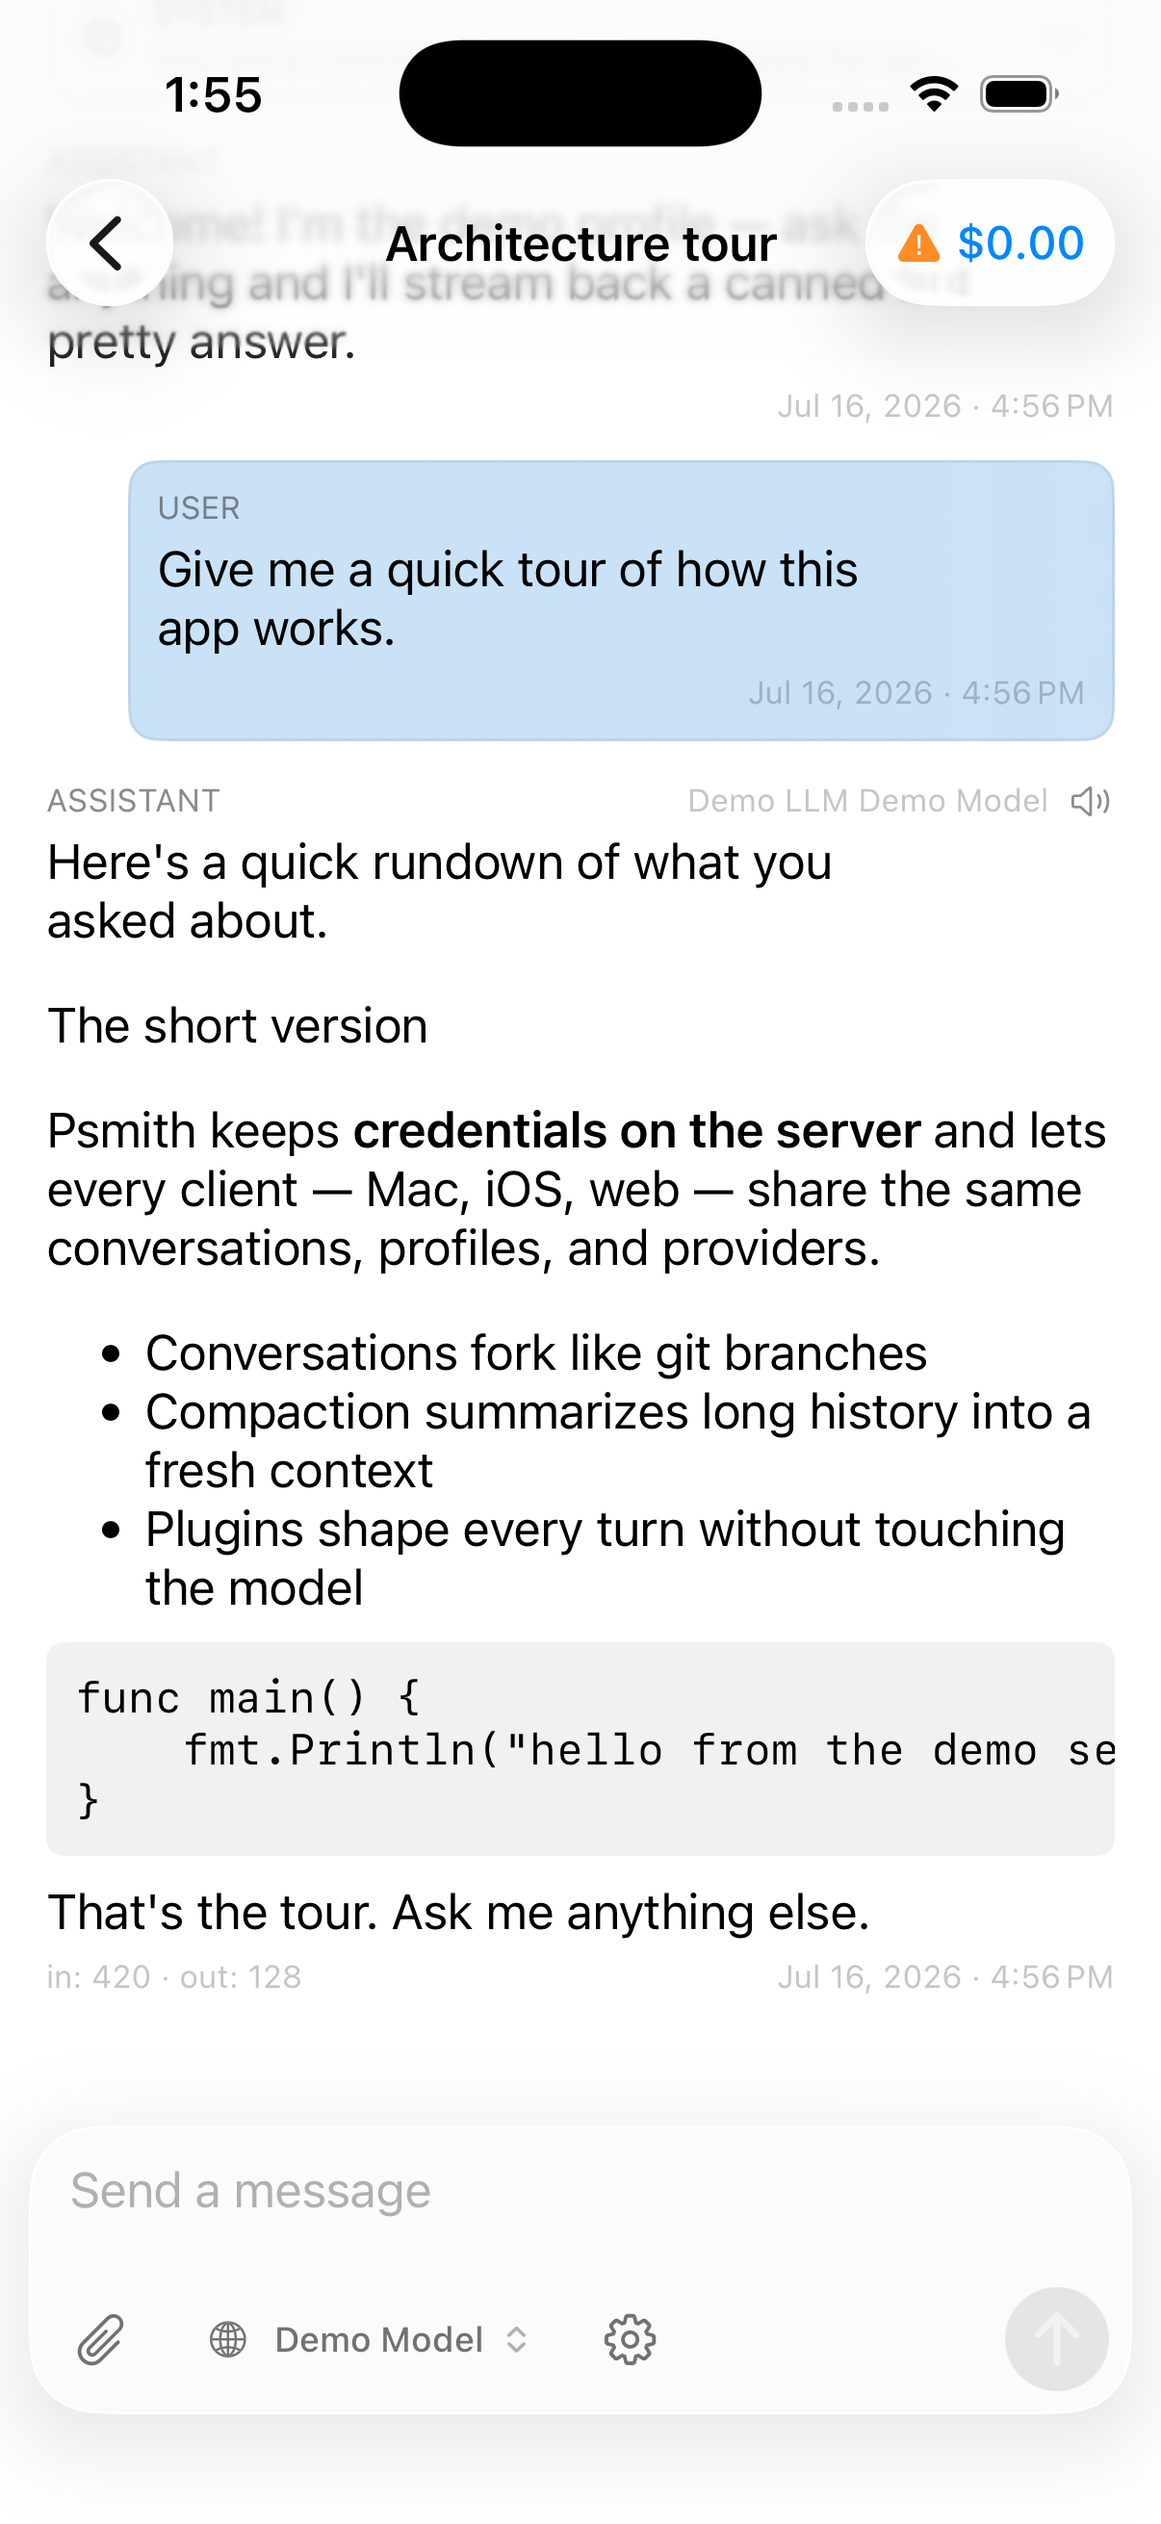
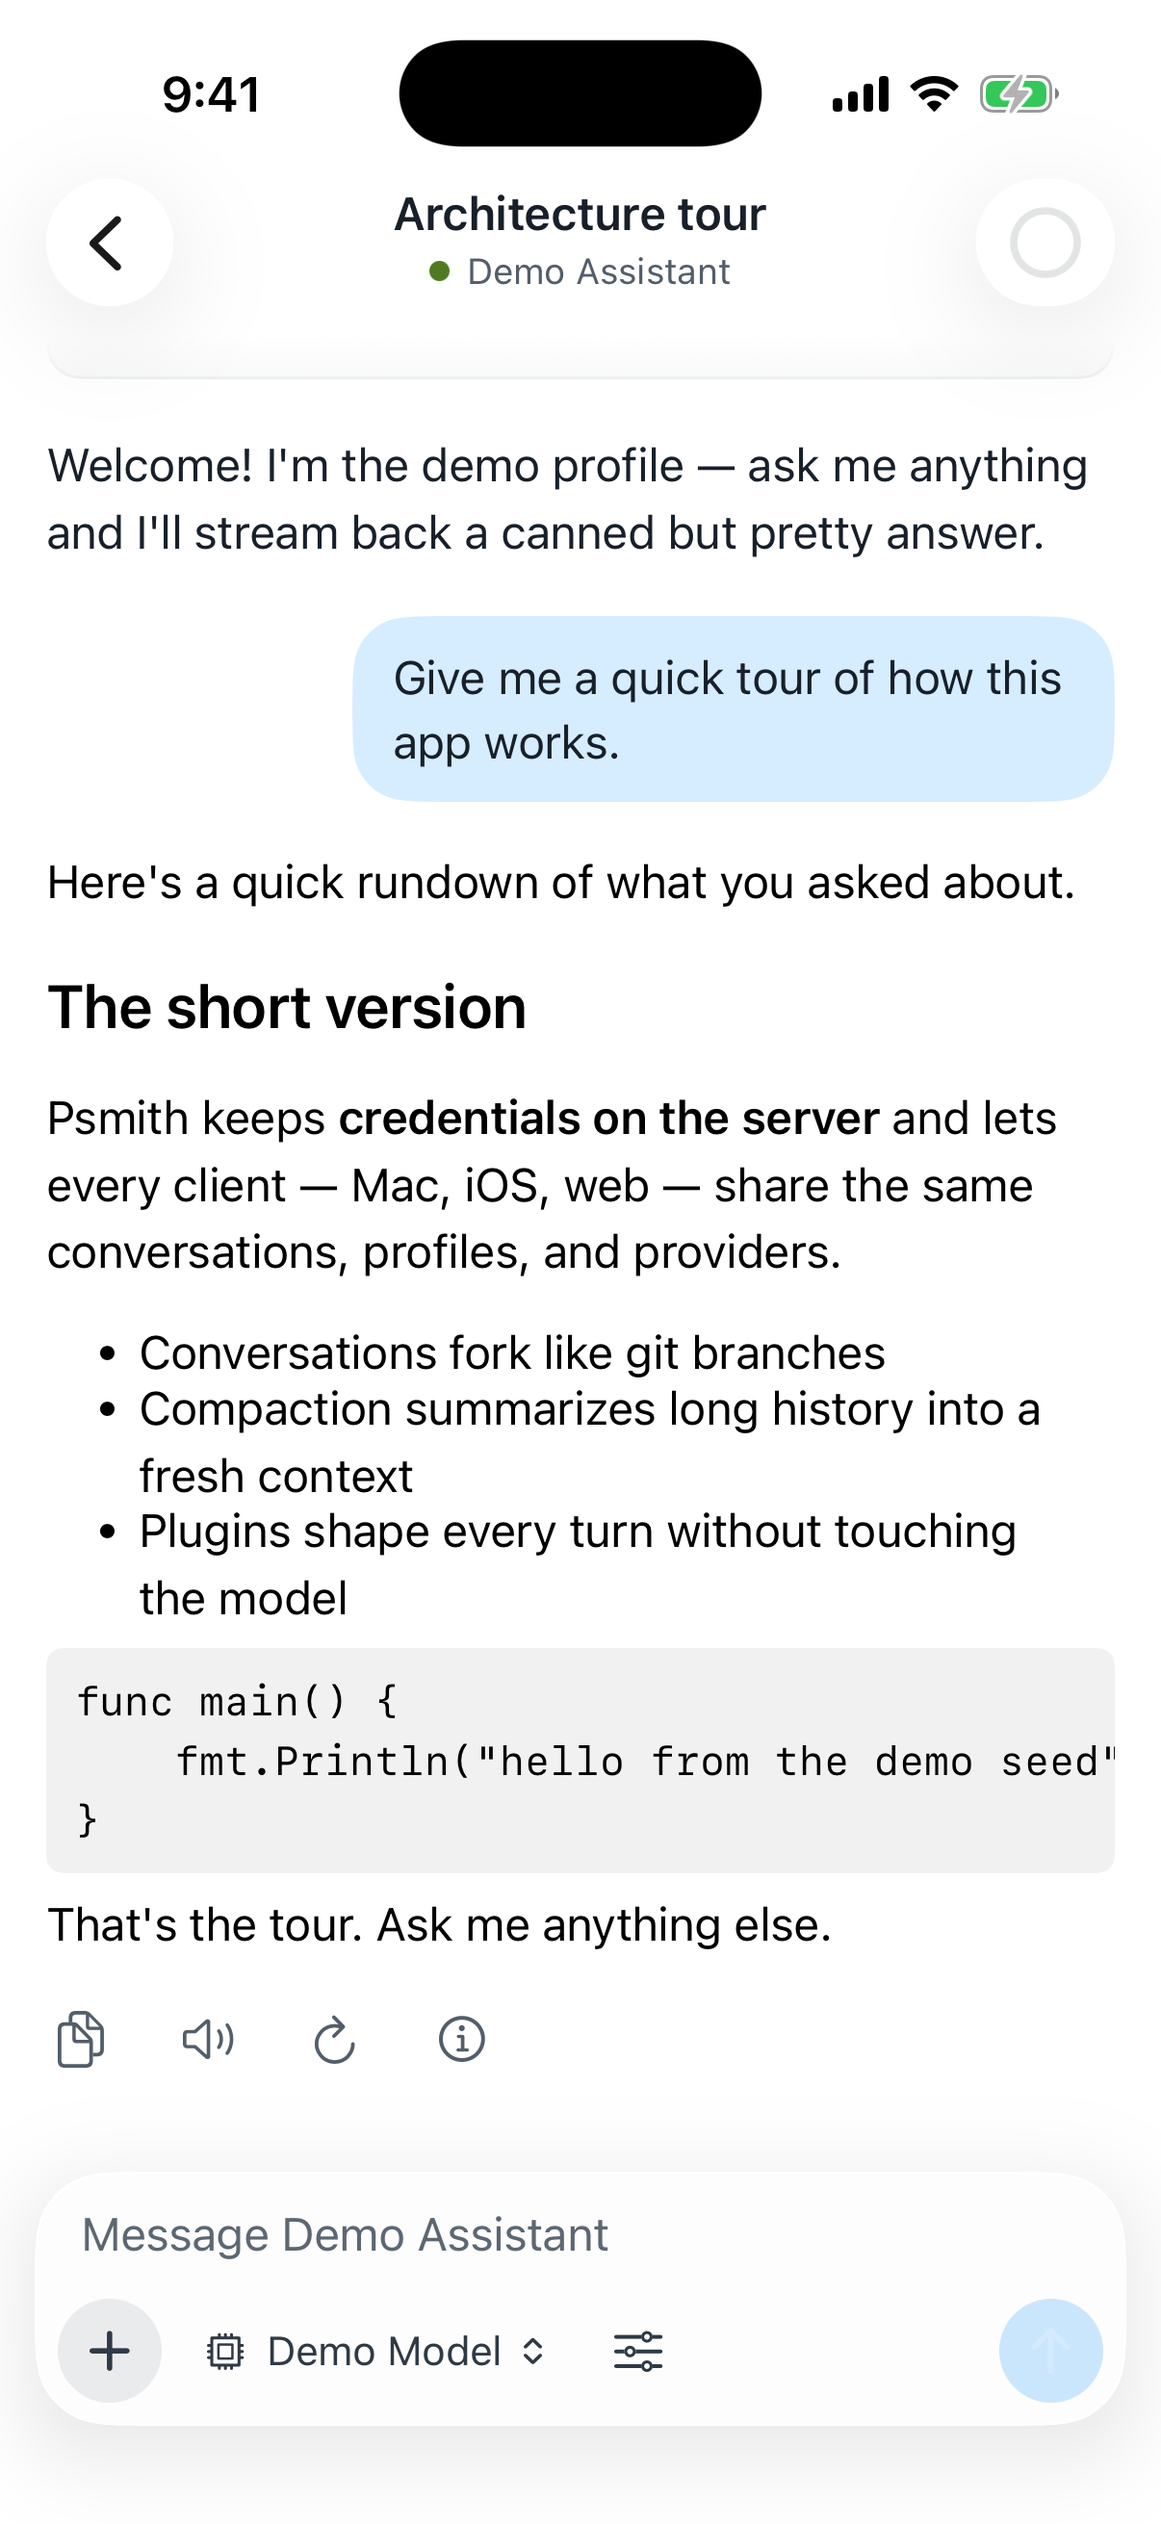
docs: refresh the README and its screenshots, add web
Every screenshot is retaken against a demo-seeded server: iOS from a
clean simulator, Mac through a new LiveProbe readmeShots test that
renders offscreen, and web through headless Chrome. The README gains a
section showing all three clients, lists the Claude Code and Codex
drivers as shipped, and covers the web client and the e2e targets.

diff --git a/clients/psmithd-mac/Tests/PsmithMacSnapshotTests/LiveProbe.swift b/clients/psmithd-mac/Tests/PsmithMacSnapshotTests/LiveProbe.swift
@@ -120,8 +120,8 @@ struct LiveProbe {
             await real(name)
         }
 
-        func snap(_ name: String) {
-            guard let image = render() else { return }
+        func snap(_ name: String, titlebar: Bool = true) {
+            guard let image = Self.render(window, titlebar: titlebar) else { return }
             let rep = NSBitmapImageRep(cgImage: image)
             let png = rep.representation(using: .png, properties: [:])
             try? png?.write(to: URL(fileURLWithPath: "\(LiveProbe.shots)/mac-\(name).png"))
@@ -130,7 +130,7 @@ struct LiveProbe {
         func render() -> CGImage? { Self.render(window) }
 
         /// The window as drawn offscreen, title bar included.
-        static func render(_ window: NSWindow) -> CGImage? {
+        static func render(_ window: NSWindow, titlebar: Bool = true) -> CGImage? {
             guard let view = window.contentView?.superview ?? window.contentView else { return nil }
             view.layoutSubtreeIfNeeded()
             view.displayIfNeeded()
@@ -208,7 +208,7 @@ struct LiveProbe {
                 ctx.draw(cg, in: r)
             }
             // The title bar on top again, so titles and toolbar show.
-            if let bar = Self.find(view, where: { String(describing: type(of: $0)) == "NSTitlebarContainerView" }).first,
+            if titlebar, let bar = Self.find(view, where: { String(describing: type(of: $0)) == "NSTitlebarContainerView" }).first,
                let rep = bar.bitmapImageRepForCachingDisplay(in: bar.bounds) {
                 bar.cacheDisplay(in: bar.bounds, to: rep)
                 if let cg = rep.cgImage { ctx.draw(cg, in: bar.convert(bar.bounds, to: nil)) }
@@ -412,6 +412,32 @@ struct LiveProbe {
                 }
             }
         }
+    }
+
+    /// The README's Mac shots, against a demo-seeded server
+    /// (`cmd/demo-seed`). Writes mac-readme-*.png, rendered offscreen.
+    @Test(.enabled(if: !shots.isEmpty))
+    func readmeShots() async throws {
+        let app = try await Self.signedIn()
+        let rig = Rig(app: app, size: CGSize(width: 1100, height: 720))
+        await app.providers.load()
+        await app.profiles.load()
+        await app.mcpServers.load()
+        let convos = ConversationsModel(client: app.client, profiles: app.profiles, hub: app.streamHub)
+        await convos.refresh()
+        rig.mount(HomeView(user: app.authState.currentUser!).environment(convos))
+        await rig.pump(2)
+        if let c = convos.conversations.first(where: { $0.title == "Architecture tour" }) { convos.selectedID = c.id }
+        await rig.pump(4)
+        // The title bar redraw paints over the header, which sits under it
+        // in a full-size-content window.
+        rig.snap("readme-conversation", titlebar: false)
+
+        let settings = Rig(app: app, size: CGSize(width: 1100, height: 720))
+        settings.mount(SettingsView(providersModel: app.providers, profilesModel: app.profiles, mcpServersModel: app.mcpServers).environment(convos))
+        settings.navigator.settingsCategory = .profiles
+        await settings.pump(3)
+        settings.snap("readme-settings")
     }
 
     /// Every pane at the window's minimum and at two larger sizes.

diff --git a/README.md b/README.md
@@ -2,7 +2,7 @@
 
 *Pronounced "Smith". The P is silent, as in pshrimp.*
 
-Psmith is a self-hosted AI chat orchestrator. It mixes cloud APIs (Anthropic, OpenAI, Google, OpenRouter, anything OpenAI-compatible) and — eventually — local agentic CLIs behind a single chat UI, with a server that owns history so clients can disconnect and reconnect without losing tokens mid-stream.
+Psmith is a self-hosted AI chat orchestrator. It puts cloud APIs (Anthropic, OpenAI, Google, OpenRouter, anything OpenAI-compatible) and local agentic CLIs (Claude Code, Codex) behind one chat UI. The server owns history and consumes every stream to completion, so clients can disconnect and reconnect without losing a token.
 
 It's a personal project. The roadmap, scope, and tradeoffs are biased toward "one developer using this every day," not "platform for many tenants."
 
@@ -16,36 +16,59 @@ It's a personal project. The roadmap, scope, and tradeoffs are biased toward "on
 
 ## Why this exists
 
-Off-the-shelf chat UIs make easy things easy and hard things impossible. Psmith trades polish for knobs:
+Off-the-shelf chat UIs make easy things easy and hard things impossible. Psmith trades polish for knobs.
 
-- **Mix providers in one conversation** — pick the model per turn. Ask Claude for code, hand the result to Gemini for review, settle the dispute with GPT-5.
-- **Server-owned streams** — the server consumes upstream provider streams to completion regardless of client state. Background the app, return five minutes later, the message is finished and waiting.
-- **Branching message trees** — every conversation is a tree, not a list. Fork from any message; the UI shows sibling counts and lets you switch branches.
-- **Manual context compression** — compress on demand into a new context with a summary you can edit before committing.
-- **Profiles as configuration bundles** — system message + default model + compression behavior + plugins, attached to a conversation, inheriting from parent profiles.
-- **Plugins as compile-time Go code** — one Go interface set covering system-prompt contribution, outgoing rewrites, history transforms, inbound chunk processing, display rewrites, and tools.
+- Mix providers in one conversation. Pick the model per turn: ask Claude for code, hand the result to Gemini for review, settle the dispute with GPT-5.
+- The server owns the stream. It reads every upstream provider stream to the end whatever the client does. Background the app, come back five minutes later, and the reply is finished and waiting.
+- Conversations are trees, not lists. Fork from any message; every client shows sibling counts and lets you switch branches.
+- Compression is manual. Compress on demand into a new context, with a summary you review and edit before it takes over.
+- Profiles bundle configuration: system message, default model, compression behavior and plugins. They attach to a conversation and inherit from parent profiles.
+- Plugins are compile-time Go code. One interface set covers system-prompt contributions, outgoing rewrites, history transforms, inbound chunk processing, display rewrites and tools.
 
 ## Status
 
-A personal project, exercised daily by the author. Working today:
+A personal project, used daily. Working today:
 
-- Anthropic, OpenAI (Chat Completions + Responses), Google Gemini, and any OpenAI-compatible endpoint, with **13 built-in provider presets** (OpenAI, Anthropic, Google, xAI, DeepSeek, Groq, OpenRouter, Mistral, Together, Cerebras, Qwen, Ollama, Perplexity) each carrying its per-provider quirks.
-- Streaming, branching, editing, deleting, and manual two-stage compression.
-- Per-message and per-context cost/token tracking, a cache-efficiency dot, prompt caching across Anthropic/OpenAI/Google, and auto-titling via a cheap model (or Apple Foundation Models on macOS).
-- Per-conversation overrides (`temperature`, `max_output_tokens`, thinking effort, …) with 4-layer resolution (conversation → profile → model → provider).
-- **macOS and iOS** clients (SwiftUI) sharing repositories, view models, and most views via the `PsmithSwift` package; the iOS app reattaches to in-flight server streams on resume and stays readable offline via a SwiftData cache. A server-rendered **web** client is built into psmithd.
-- **Tool use end to end** — server-side tools (web search, memory, image generation) and on-device tools (Calendar, Reminders, Health, Obsidian on iOS), with an audit log, per-call permissions, and mid-call elicitation.
-- **Semantic history search, MCP, tracing** — opt-in embeddings power a `search_history` tool; a `/mcp` endpoint exposes a curated subset of the API; per-user Langfuse config emits traces.
+- Anthropic, OpenAI (Chat Completions and Responses), Google Gemini, and any OpenAI-compatible endpoint. Thirteen built-in presets (OpenAI, Anthropic, Google, xAI, DeepSeek, Groq, OpenRouter, Mistral, Together, Cerebras, Qwen, Ollama, Perplexity) each carry their provider's quirks.
+- Claude Code and Codex as stateful providers. The server holds their session handles per branch, so forking a harness conversation works.
+- Streaming, branching, editing, deleting, and two-stage manual compression.
+- Cost and token tracking per message and per context, a cache-efficiency dot, prompt caching across Anthropic, OpenAI and Google, and auto-titling through a cheap model (or Apple Foundation Models on macOS).
+- Per-conversation overrides (`temperature`, `max_output_tokens`, thinking effort and more), resolved through four layers: conversation, profile, model, provider.
+- Three clients. The macOS and iOS apps (SwiftUI) share repositories, view models and most views through the `PsmithSwift` package. The iOS app reattaches to in-flight server streams on resume and stays readable offline through a SwiftData cache. The web client is server-rendered and built into psmithd; replies stream into the page live, and every tab shares one account event stream.
+- Tool use end to end: server-side tools (web search, memory, image generation) and on-device tools (Calendar, Reminders, Health, Obsidian on iOS), with an audit log, per-call permissions and mid-call elicitation.
+- Opt-in embeddings power a `search_history` tool. A `/mcp` endpoint exposes a curated subset of the API. Per-user Langfuse config emits traces.
 
-Deferred: APNs push on iOS, stateful subprocess providers (Claude Code, Codex), multi-user sharing, and encryption-at-rest beyond host disk encryption. See [`docs/`](docs/README.md) for the full picture.
+Deferred: APNs push on iOS, multi-user sharing, and encryption at rest beyond host disk encryption. See [`docs/`](docs/README.md) for the full picture.
 
-<p align="left">
-  <img src="docs/screenshots/ios-chats.png" alt="iOS chats list" width="270">
-  <img src="docs/screenshots/ios-providers.png" alt="iOS providers and presets" width="270">
+## What it looks like
+
+The same server behind every client. These are a demo account seeded by [`cmd/demo-seed`](cmd/demo-seed/main.go) against its fake model.
+
+The web client, with the conversation inspector open:
+
+<p align="center">
+  <img src="docs/screenshots/web-conversation.png" alt="A conversation in the Psmith web client, with the inspector open" width="760">
 </p>
 
-<p align="left">
-  <img src="docs/screenshots/mac-conversation.png" alt="A conversation in the Psmith macOS app" width="560">
+The macOS app:
+
+<p align="center">
+  <img src="docs/screenshots/mac-conversation.png" alt="A conversation in the Psmith macOS app" width="660">
+</p>
+
+The iOS chats list, settings, and the provider presets:
+
+<p align="center">
+  <img src="docs/screenshots/ios-chats.png" alt="iOS chats list" width="250">
+  <img src="docs/screenshots/ios-settings.png" alt="iOS settings" width="250">
+  <img src="docs/screenshots/ios-providers.png" alt="iOS provider presets" width="250">
+</p>
+
+Settings on the web and the Mac:
+
+<p align="center">
+  <img src="docs/screenshots/web-providers.png" alt="Adding a provider in the web client" width="420">
+  <img src="docs/screenshots/mac-settings.png" alt="Profile settings in the macOS app" width="420">
 </p>
 
 ## Architecture
@@ -65,21 +88,26 @@ Deferred: APNs push on iOS, stateful subprocess providers (Claude Code, Codex), 
                        └──────────────┘    sequence N)
 ```
 
-- **Server** — Go, single binary (`psmithd`), Postgres for storage, ConnectRPC for transport. Model metadata comes from an in-process [models.dev](https://models.dev) catalog, snapshotted onto each model row at provider-add time.
-- **Clients** — SwiftUI on macOS 26 / iOS 26 sharing the `PsmithSwift` package (`PsmithKit` + `PsmithUI`), plus a server-rendered web client.
-- **No multi-provider framework** — drivers use each vendor's official SDK directly so provider-specific features survive intact; the OpenAI-compatible driver carries a small per-preset `Quirks` overlay.
+The server is Go: a single binary (`psmithd`), Postgres for storage, ConnectRPC for transport. Model metadata comes from an in-process [models.dev](https://models.dev) catalog, snapshotted onto each model row when the provider is added.
 
-The full design lives under [`docs/`](docs/README.md), one document per subsystem. Start at [`docs/README.md`](docs/README.md) or [`docs/design/overview.md`](docs/design/overview.md). Read it before working in the repo.
+The clients are SwiftUI on macOS 26 and iOS 26, sharing the `PsmithSwift` package (`PsmithKit` and `PsmithUI`), plus the server-rendered web client (templ, htmx and server-sent events).
+
+There's no multi-provider framework. Drivers use each vendor's official SDK directly, so provider-specific features survive intact. The OpenAI-compatible driver carries a small per-preset `Quirks` overlay.
+
+The full design lives under [`docs/`](docs/README.md), one document per subsystem. Start at [`docs/README.md`](docs/README.md) or [`docs/design/overview.md`](docs/design/overview.md), and read it before working in the repo.
 
 ## Repo layout
 
 ```
 cmd/psmithd/     # server entrypoint
 cmd/psmith/      # operator CLI (install, useradd, genkey)
+cmd/demo-seed/   # demo account and fake model, for screenshots and e2e tests
 proto/           # ConnectRPC service definitions
 gen/             # generated Go bindings (buf)
 db/migrations/   # goose-format SQL migrations
-server/          # server packages (auth, conversations, providers, stream, …)
+server/          # server packages (auth, conversations, providers, stream, web, …)
+claudesdk/       # Claude Code harness SDK
+codexsdk/        # Codex harness SDK
 pluginapi/       # the plugin contract, importable out-of-tree
 plugins/         # the built-in plugins, one package per folder
 clients/         # PsmithSwift package + macOS and iOS apps
@@ -97,20 +125,22 @@ docker compose -p psmith exec psmithd psmith useradd -u alice
 # open http://localhost:8080
 ```
 
-That's one of three supported ways to run it. The full walkthrough — Docker Compose, a single Docker container against your own Postgres, and from source with `go build` — plus configuration and the clients is in [`docs/operations/installation.md`](docs/operations/installation.md).
+That's one of three supported ways to run it. The full walkthrough covers Docker Compose, a single Docker container against your own Postgres, and building from source with `go build`, plus configuration and the clients: [`docs/operations/installation.md`](docs/operations/installation.md).
 
-Clients: `make mac-app-run` and `make ios-app-run`.
+The web client is served by psmithd at its root. The native clients build with `make mac-app-run` and `make ios-app-run`.
 
 ## Development
 
 ```bash
-make test         # Go suite (unit + pgtestdb integration)
+make test         # Go suite (unit, pgtestdb integration, headless-Chrome web tests)
 make swift-test   # Swift L1 integration + L2 snapshot
+make mac-e2e      # Mac end-to-end against a real psmithd, offscreen
+make ios-e2e      # iOS end-to-end in the simulator
 make proto sqlc   # regenerate ConnectRPC and query bindings
 ```
 
-Build and codegen details are in [`docs/operations/building-and-codegen.md`](docs/operations/building-and-codegen.md); the testing posture in [`docs/testing-plan.md`](docs/testing-plan.md). Adding a provider driver and adding a chat plugin are documented in [`docs/design/providers.md`](docs/design/providers.md) and [`docs/design/plugins.md`](docs/design/plugins.md). `CLAUDE.md` makes test coverage a hard rule: don't merge a vertical slice without tests.
+Build and codegen details are in [`docs/operations/building-and-codegen.md`](docs/operations/building-and-codegen.md), and the testing posture in [`docs/testing-plan.md`](docs/testing-plan.md). Adding a provider driver and adding a chat plugin are covered in [`docs/design/providers.md`](docs/design/providers.md) and [`docs/design/plugins.md`](docs/design/plugins.md). `CLAUDE.md` makes test coverage a hard rule: don't merge a vertical slice without tests.
 
 ## License
 
-MIT — see [`LICENSE`](LICENSE).
+MIT. See [`LICENSE`](LICENSE).
